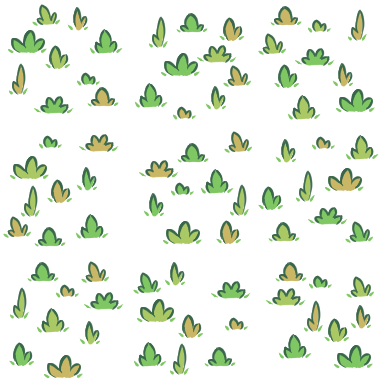
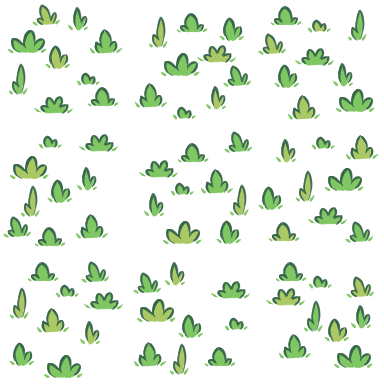
fix: change bubble picture and rename another pictures

diff --git a/src/app/components/cell/cell.component.scss b/src/app/components/cell/cell.component.scss
@@ -2,7 +2,7 @@
   position: relative;
   width: var(--cell-size);
   height: var(--cell-size);
-  background-image: url(/assets/grass3.png);
+  background-image: url(/assets/grass.png);
   background-size: calc(3 * var(--cell-size)) calc(3 * var(--cell-size));
   overflow: visible;
   filter: brightness(1) sepia(0);
@@ -13,7 +13,7 @@
   width: var(--cell-size);
   height: var(--cell-size);
   background-size: var(--cell-size) var(--cell-size);
-  background-image: url(/assets/grass_empty3.png);
+  background-image: url(/assets/grass_empty.png);
   transform: scaleY(-1);
 }
 
@@ -23,18 +23,24 @@
 
 .content {
   position: absolute;
-  top: -3px;
-  right: -9px;
-  width: 60px;
-  height: 40px;
+  display: block;
+  top: 0;
+  bottom: 0;
+  left: 0;
+  width: var(--cell-size);
+  height: var(--cell-size);
   overflow: visible;
   color: var(--number-color);
   opacity: 0;
-  background-image: url(/assets/thought_bubble.svg);
-  background-size: 40px;
+  background-image: url(/assets/bubble.png);
+  background-size: var(--cell-size);
   background-position: bottom;
   background-repeat: no-repeat;
   transition: opacity 0.3s ease-out;
+}
+
+.content.content--left {
+  transform: scale(-1, 1);
 }
 
 .content--visible {
@@ -44,5 +50,9 @@
 .content__number {
   display: block;
   text-align: center;
-  transform: translateY(16%);
+  transform: translateY(30%) translateX(-30%);
+}
+
+.content--left .content__number {
+  transform: scale(-1, 1) translateY(30%) translateX(30%);
 }

diff --git a/src/app/components/cow/cow.component.scss b/src/app/components/cow/cow.component.scss
@@ -4,35 +4,8 @@
   left: 0;
   width: var(--cell-size);
   height: var(--cell-size);
-  background-image: url(/assets/cow_walk3.png);
+  background-image: url(/assets/cow_walk.png);
   background-size: calc(var(--cow-width) * var(--cell-size))
     calc(var(--cow-height) * var(--cell-size));
   transition: transform 0.5s ease-out;
-}
-
-.bubble {
-  position: absolute;
-  top: -12px;
-  right: -17px;
-  width: 60px;
-  height: 40px;
-  overflow: visible;
-  color: #000000;
-  font-family: 'Gill Sans', 'Gill Sans MT', Calibri, 'Trebuchet MS', sans-serif;
-  opacity: 0;
-  background-image: url(/assets/thought_bubble.svg);
-  background-size: 40px;
-  background-position: bottom;
-  background-repeat: no-repeat;
-  transition: opacity 0.3s ease-out;
-}
-
-.bubble--visible {
-  opacity: 0.95;
-}
-
-.bubble__number {
-  display: block;
-  text-align: center;
-  transform: translateY(33%);
 }

diff --git a/src/app/components/cell/cell.component.ts b/src/app/components/cell/cell.component.ts
@@ -14,6 +14,7 @@ import {
   animate,
   transition,
 } from '@angular/animations';
+import { toSignal } from '@angular/core/rxjs-interop';
 
 @Component({
   selector: 'app-cell',
@@ -43,6 +44,7 @@ export class CellComponent implements OnChanges {
   @Input({ required: true }) cell!: Cell;
 
   private readonly boardService = inject(BoardService);
+  readonly direction = toSignal(this.boardService.direction$);
 
   get backgroundPosition(): string {
     return `-${this.cell.spriteX}px -${this.cell.spriteY}px`;

diff --git a/src/app/components/cell/cell.component.html b/src/app/components/cell/cell.component.html
@@ -5,7 +5,11 @@
     [class.revealed]="cell.revealed"
     [style.background-position]="backgroundPosition"
   >
-    <div class="content" [class.content--visible]="!!delayedContent">
+    <div
+      class="content"
+      [class.content--visible]="!!delayedContent"
+      [class.content--left]="direction()! && direction() === 'left'"
+    >
       <span class="content__number bagel">
         {{ delayedContent }}
       </span>
